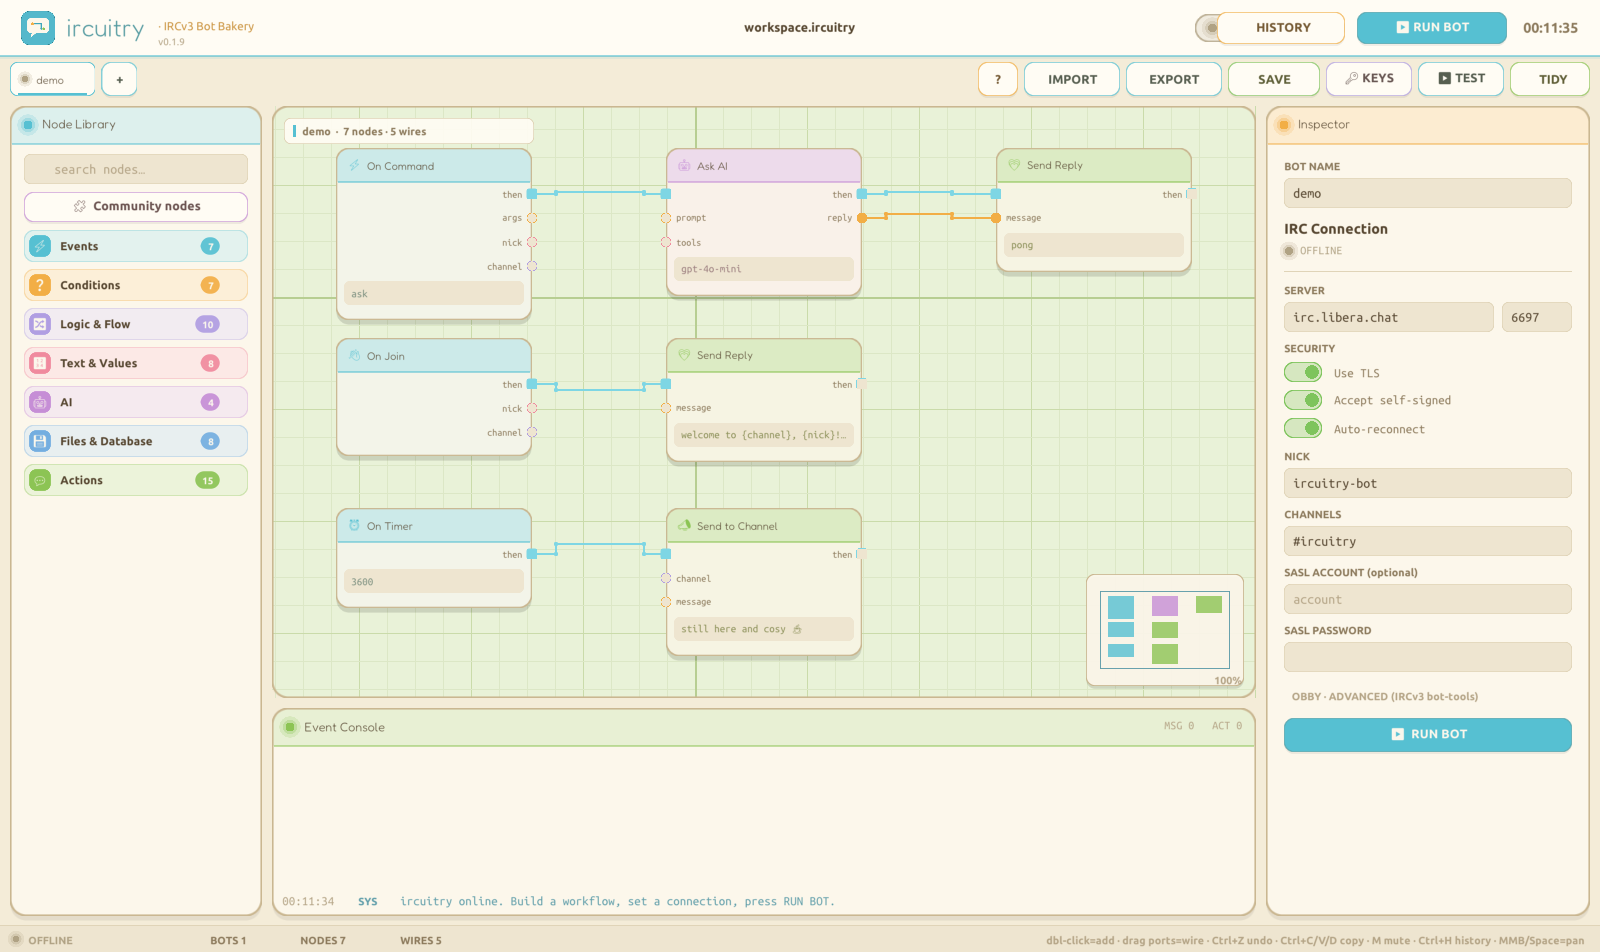
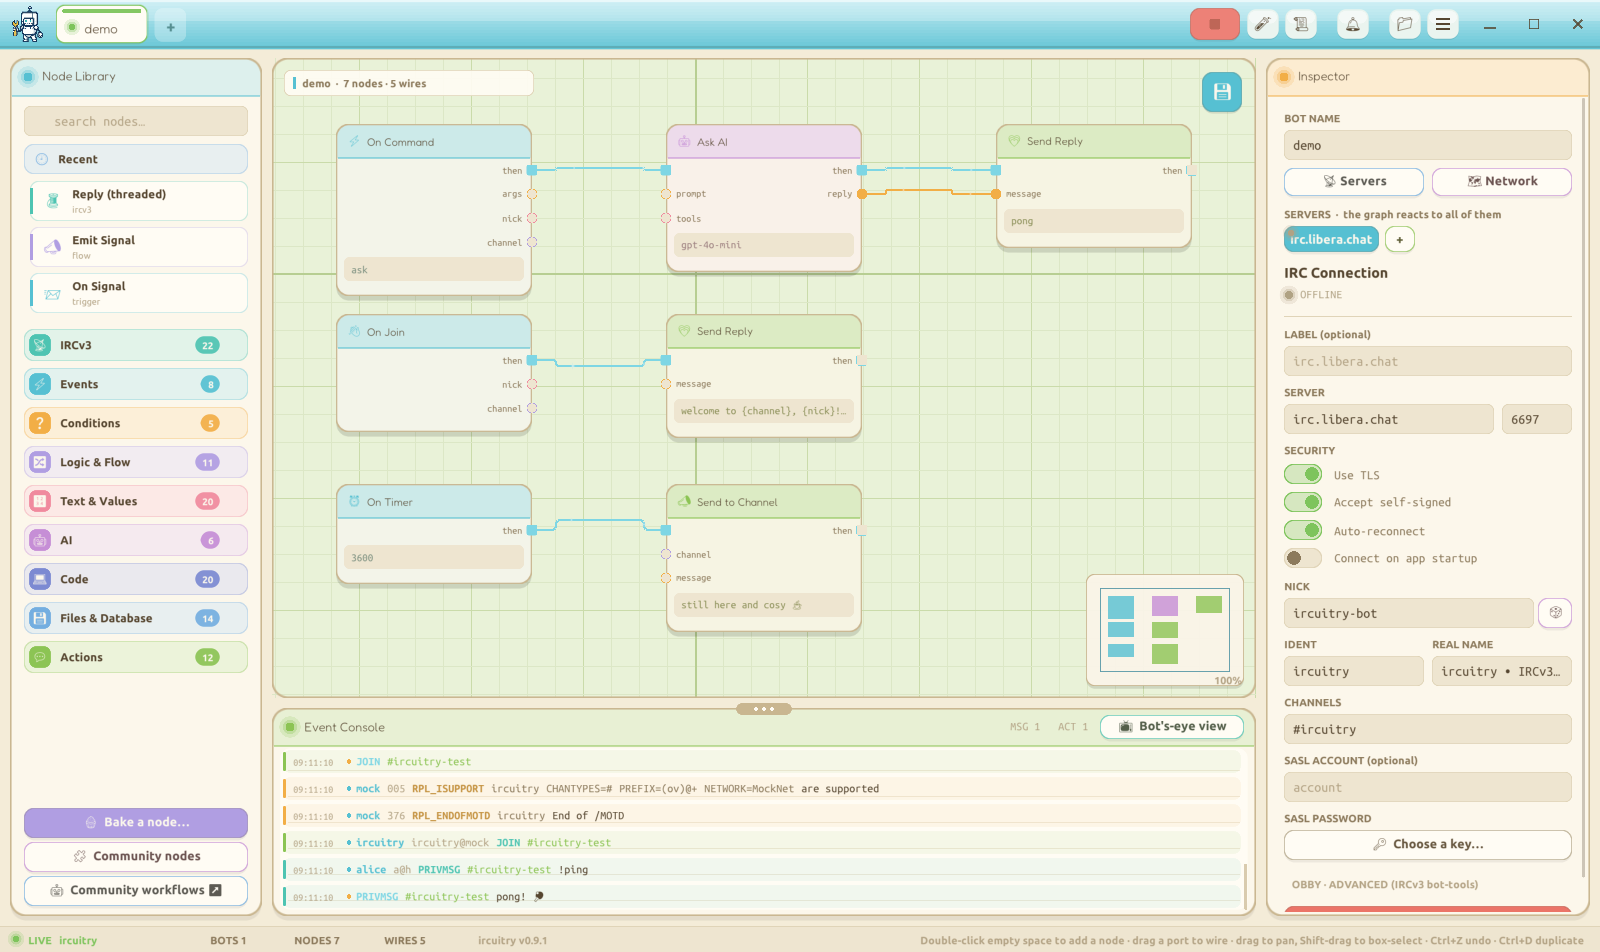
site: refresh editor screenshot; mention Programmer AI and composite community nodes

diff --git a/index.html b/index.html
@@ -53,9 +53,9 @@
       <div class="features">
         <div class="feature"><div class="ic c-leaf">🧩</div><h3>Visual node graph</h3><p>Drag trigger, filter and action nodes onto the canvas and wire them together. Exec flow plus typed data pins.</p></div>
         <div class="feature"><div class="ic c-blue">💬</div><h3>Real IRCv3</h3><p>TLS, CAP negotiation, SASL, message tags, reactions and threaded replies. A genuine client, not a wrapper.</p></div>
-        <div class="feature"><div class="ic c-pink">🤖</div><h3>AI nodes</h3><p>Ask AI, tools and memory speak the OpenAI-compatible protocol, so point them at any endpoint, hosted or local.</p></div>
+        <div class="feature"><div class="ic c-pink">🤖</div><h3>AI &amp; code nodes</h3><p>Ask AI, tools and memory over the OpenAI-compatible protocol, plus a sandboxed Programmer AI that reads, edits and delivers a whole codebase.</p></div>
         <div class="feature"><div class="ic c-yellow">⚡</div><h3>Run many bots</h3><p>Each tab is its own bot, connection and runtime. Auto-reconnect, rate limiting and a full run history.</p></div>
-        <div class="feature"><div class="ic c-lilac">📦</div><h3>Community nodes</h3><p>Drop-in nodes you can paste straight into the app. Browse the gallery and add new powers in seconds.</p></div>
+        <div class="feature"><div class="ic c-lilac">📦</div><h3>Community nodes</h3><p>Deconstructible recipes of built-in nodes - drop one in and right-click Edit to see exactly how it works.</p></div>
         <div class="feature"><div class="ic c-leaf">🔌</div><h3>MCP built in</h3><p>An AI assistant can introspect, build, validate and dry-run your bots through a standard MCP server.</p></div>
       </div>
     </div>